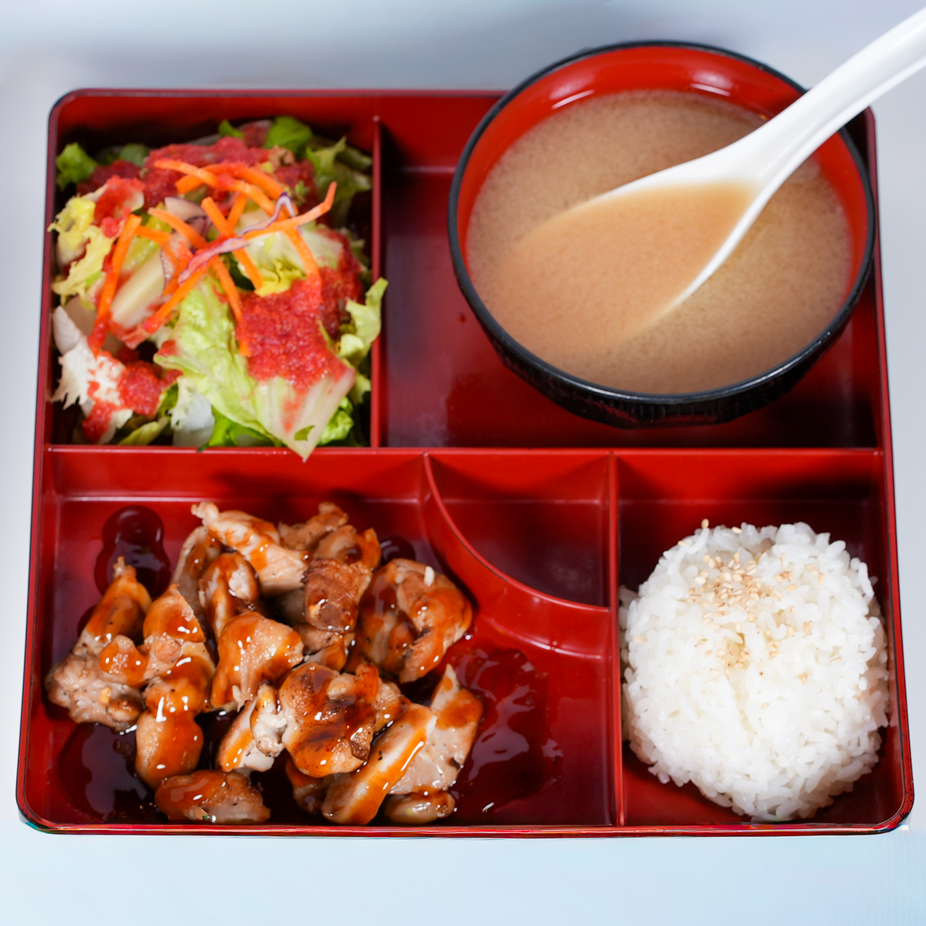
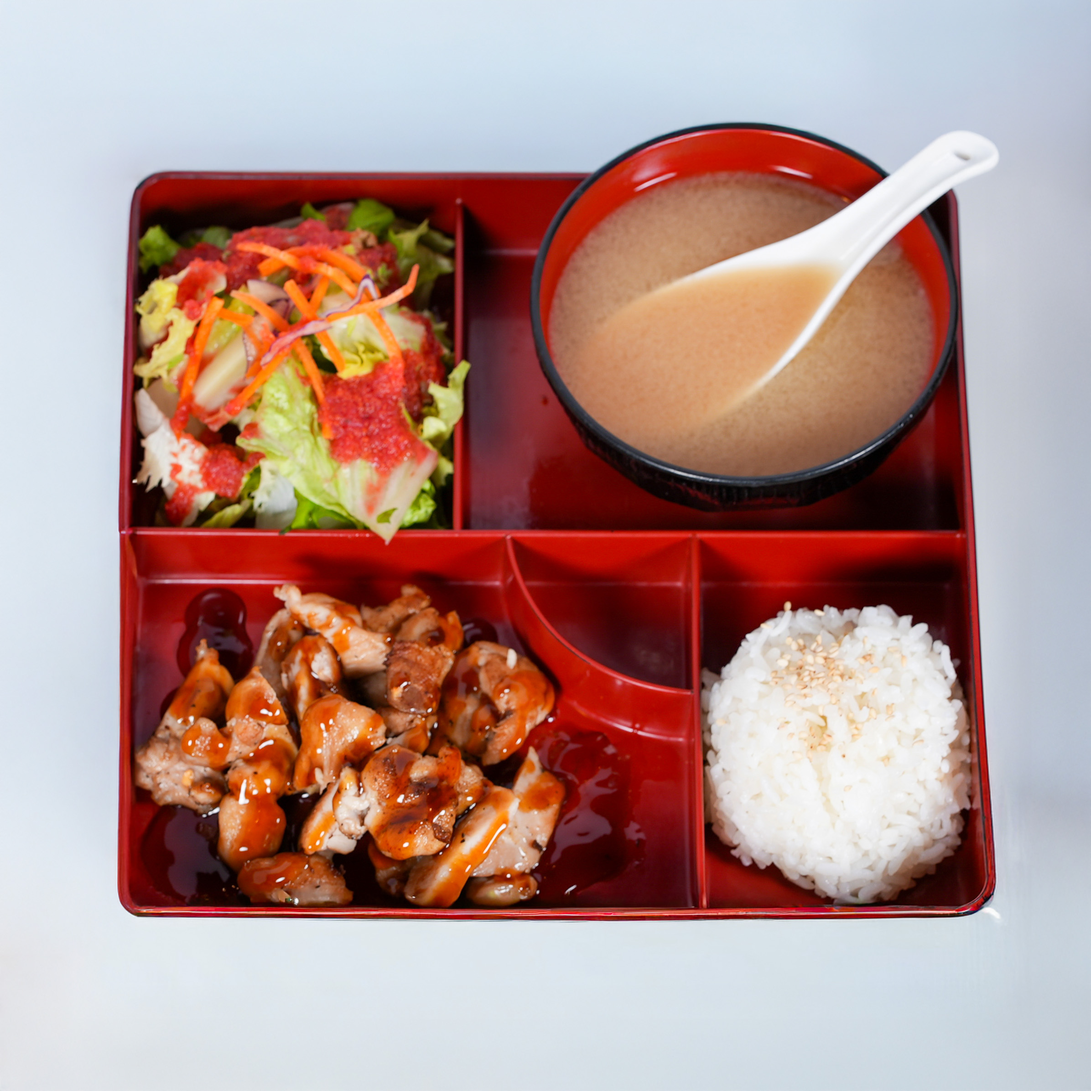
resized photos for category links

diff --git a/frontend/src/Components/Menu/menu.jsx b/frontend/src/Components/Menu/menu.jsx
@@ -21,6 +21,7 @@ const Menu = ({ data, loading }) => {
 	const [showHint, setShowHint] = useState(false)
 	const [showBackToTop, setShowBackToTop] = useState(false)
 	
+	const hasMounted = useRef(false)
 	const menuRef = useRef()
 	const subRefs = useRef([])
 	const subOffsets = useRef([])
@@ -125,8 +126,6 @@ const Menu = ({ data, loading }) => {
     // subRefs.current.forEach((ref, i) => {
     //   subOffsets.current[i] = ref.offsetTop
     // })
-		// console.log(subRefs.current, "SUBREFS")
-		// console.log(subOffsets.current, "THIS")
 		if (window.innerWidth !== lastWindowWidth.current) {
 			lastWindowWidth.current = window.innerWidth
 			// Only reset if actual width changed
@@ -187,6 +186,7 @@ const Menu = ({ data, loading }) => {
 									subOffsets={subOffsets}
 									accordionRef={activeAccordionRef}
 									scrollToAccordion={scrollToAccordion}
+									hasMounted={hasMounted}
 								/>)
 						})}
 						{activeSub && 
@@ -201,7 +201,7 @@ const Menu = ({ data, loading }) => {
 						</S.CategoryList>
 					</S.Menu>
 			}
-			<S.MenuHint $show={showHint}>Tap for more details</S.MenuHint>
+			{/* <S.MenuHint $show={showHint}>Tap for more details</S.MenuHint> */}
 			{showBackToTop &&
 				<S.BackToTop 
 					onClick={() => window.scrollTo({ top: 0, behavior: "smooth" })}

diff --git a/frontend/src/Components/Menu/Category/category.jsx b/frontend/src/Components/Menu/Category/category.jsx
@@ -1,10 +1,10 @@
-import React from "react"
+import React, { useRef } from "react"
 import { AnimatePresence } from "framer-motion"
 
 import ItemCard from "../ItemCard/itemCard"
 import * as S from "./category.styles"
 
-const Category = ({title, items, index, handleItemClick, closeModal, isOpen, handleTab, activeSub, subRefs, subOffsets, accordionRef, scrollToAccordion }) => {
+const Category = ({title, items, index, handleItemClick, closeModal, isOpen, handleTab, activeSub, subRefs, subOffsets, accordionRef, scrollToAccordion, hasMounted }) => {
 
 	const setSubRef = (el, i) => {
 		if (el && isOpen) {
@@ -54,6 +54,10 @@ const Category = ({title, items, index, handleItemClick, closeModal, isOpen, han
 					style={{ overflow: "hidden" }}
 					onAnimationComplete={() => {
 						if (!isOpen) return
+						if (!hasMounted.current) {
+							hasMounted.current = true
+							return
+						}
 						populateSubRefOffset()
 						scrollToAccordion()
 					}}

diff --git a/frontend/src/Components/Menu/Modal/modal.styles.js b/frontend/src/Components/Menu/Modal/modal.styles.js
@@ -36,7 +36,7 @@ export const ModalContainer = styled.div`
 	display: flex;
 	flex-direction: column;
 	background-color: #111;
-	padding: 30px;
+	padding: 20px;
 	border-radius: 10px;
 	margin: 0 10px;
 	z-index: 50;
@@ -52,8 +52,8 @@ export const ModalContainer = styled.div`
 
 export const ExitButton = styled.button`
 	position: absolute;
-	top: 0;
-	right: 2px;
+	top: -5px;
+	right: -4px;
 	width: 30px;
 	height: 30px;
 	background-color: transparent;
@@ -76,7 +76,6 @@ export const ModalImageContainer = styled.div`
   width: 100%;
   height: auto;
 	aspect-ratio: 1 / 1;
-	// margin: 0 0 5px;
 `
 
 

diff --git a/backend/index.js b/backend/index.js
@@ -67,7 +67,6 @@ async function fetchAllSheetsData() {
 app.get("/menu", async (req, res) => {
   try {
 		const data = await fetchAllSheetsData()
-		console.log(data)
     if (!data || data.length === 0) {
       return res.status(404).send("No data found.");
     }

diff --git a/frontend/src/App.js b/frontend/src/App.js
@@ -57,7 +57,6 @@ const App = () => {
 			.then(response => {
 				setData(response.data)
 				setLoading(false)
-				console.log(response.data.freshRoll)
 			})
 			.catch(err => {
 				console.error(err);
